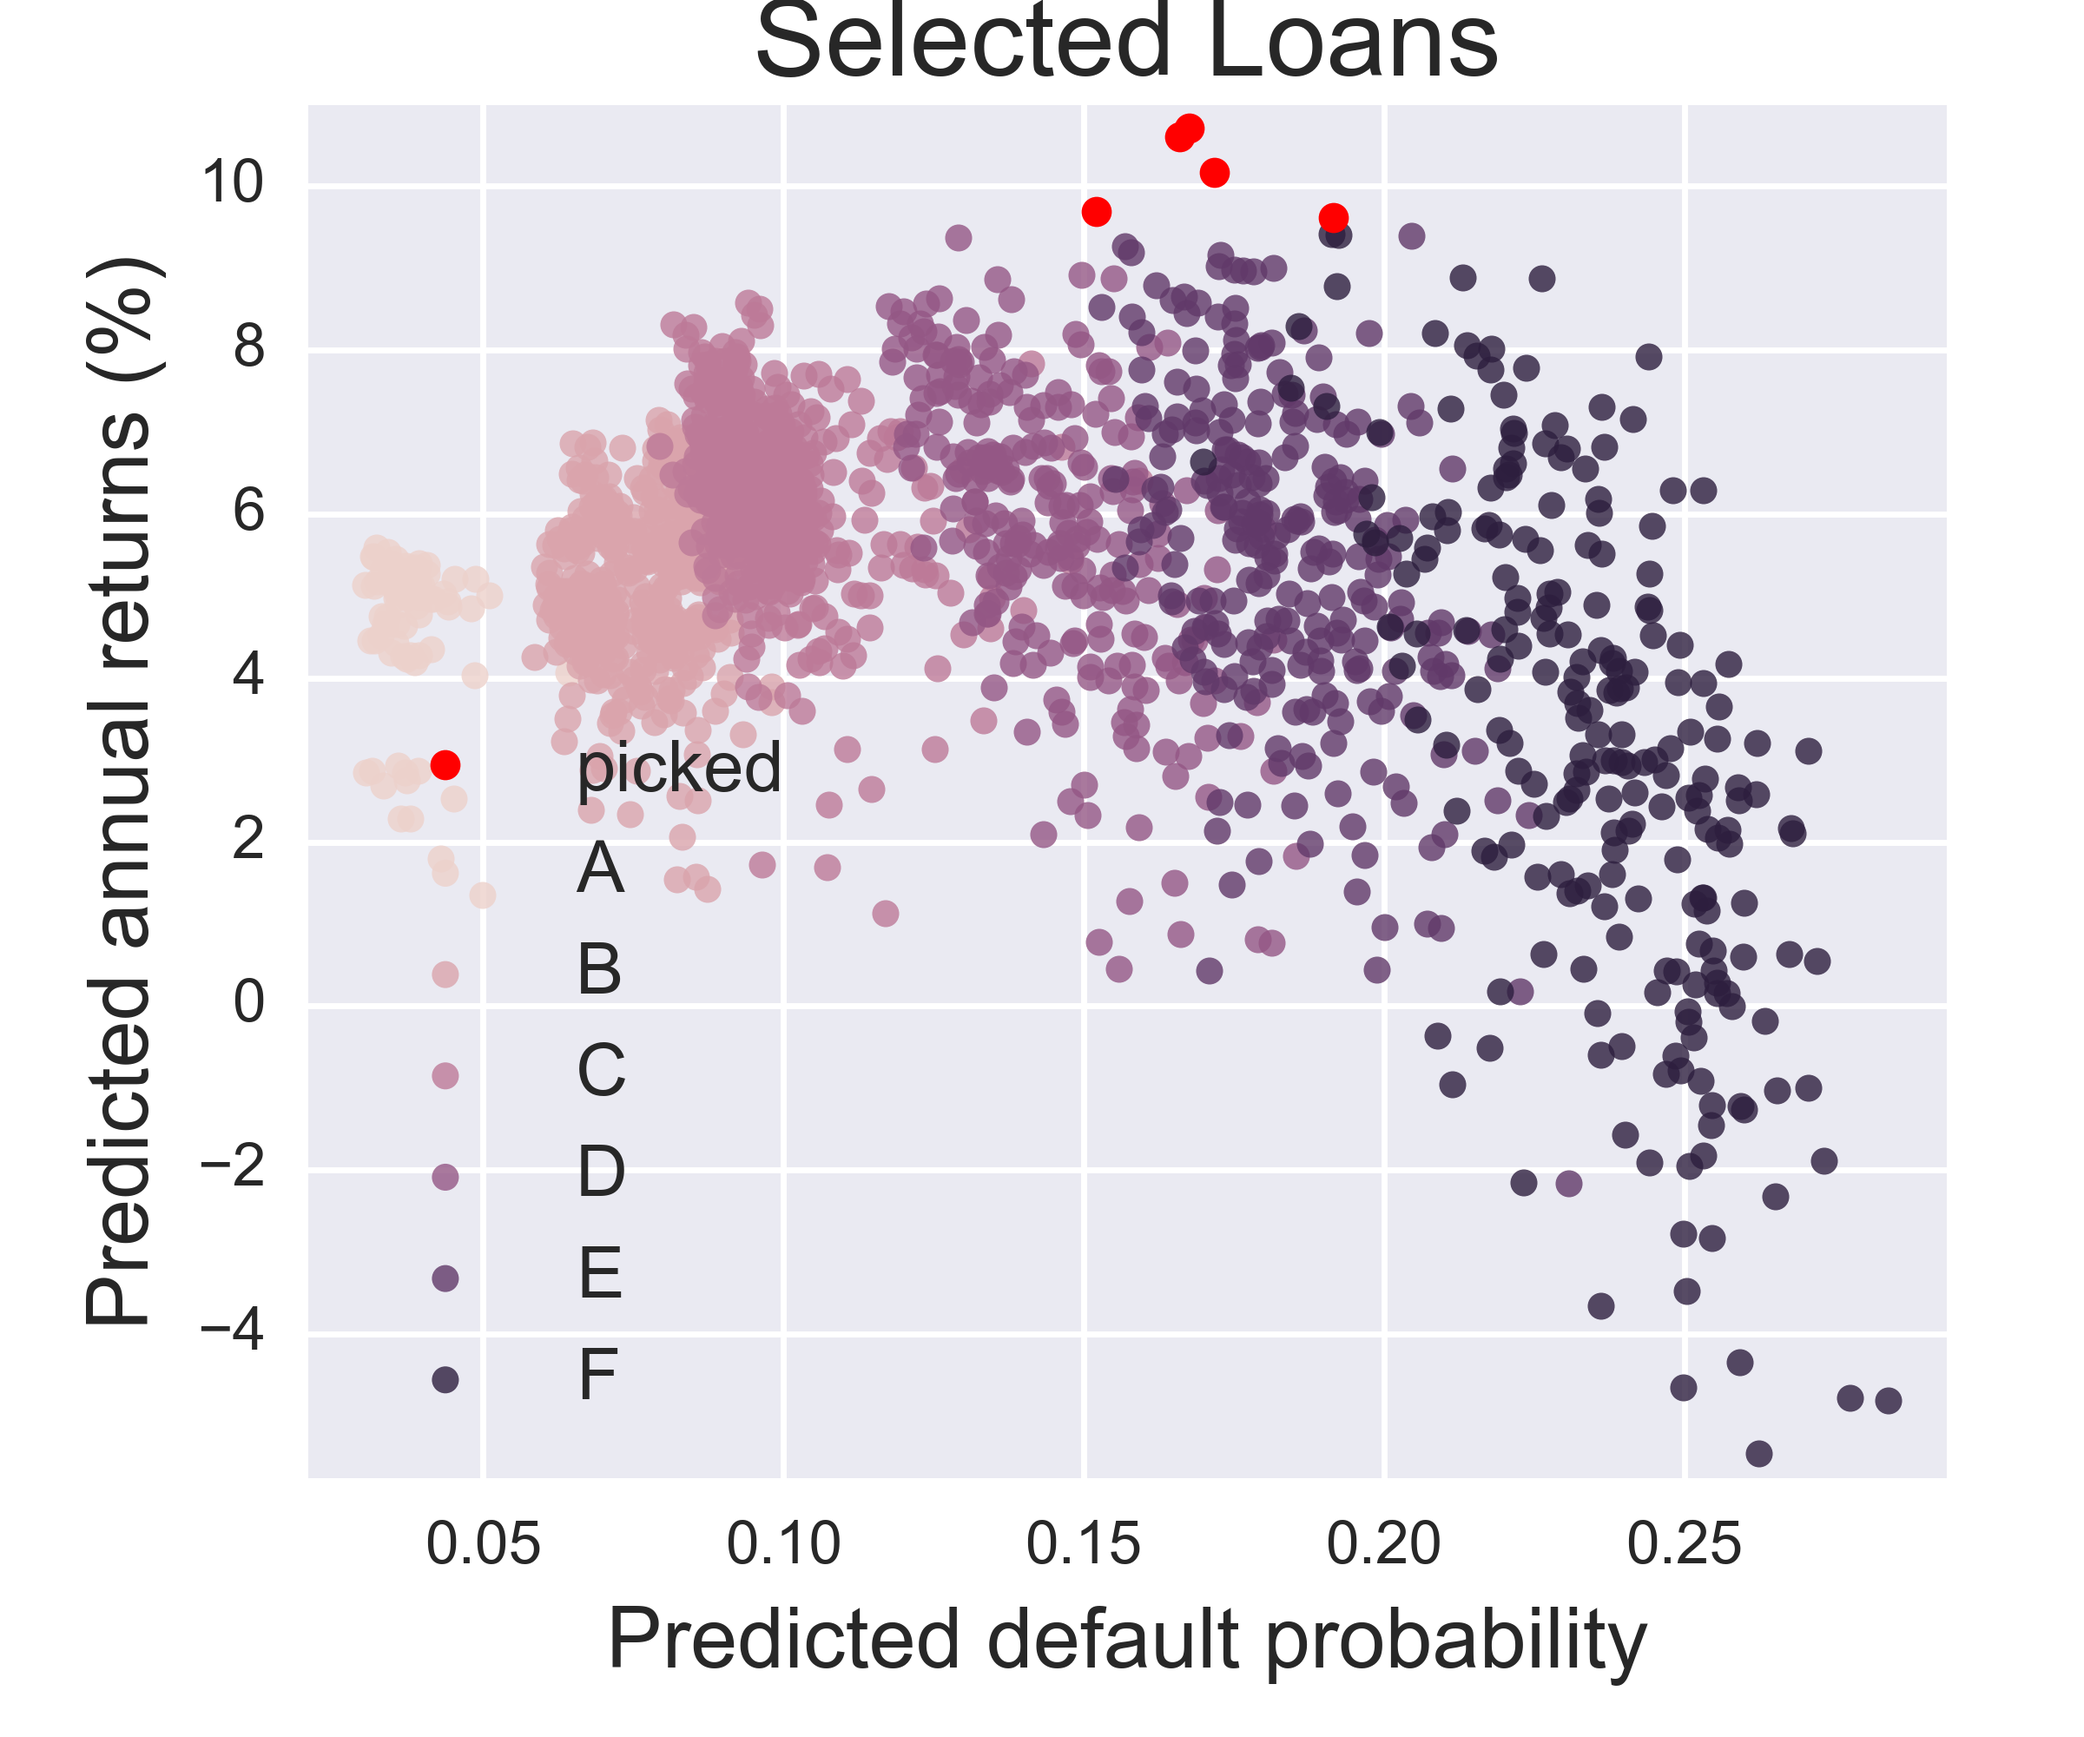
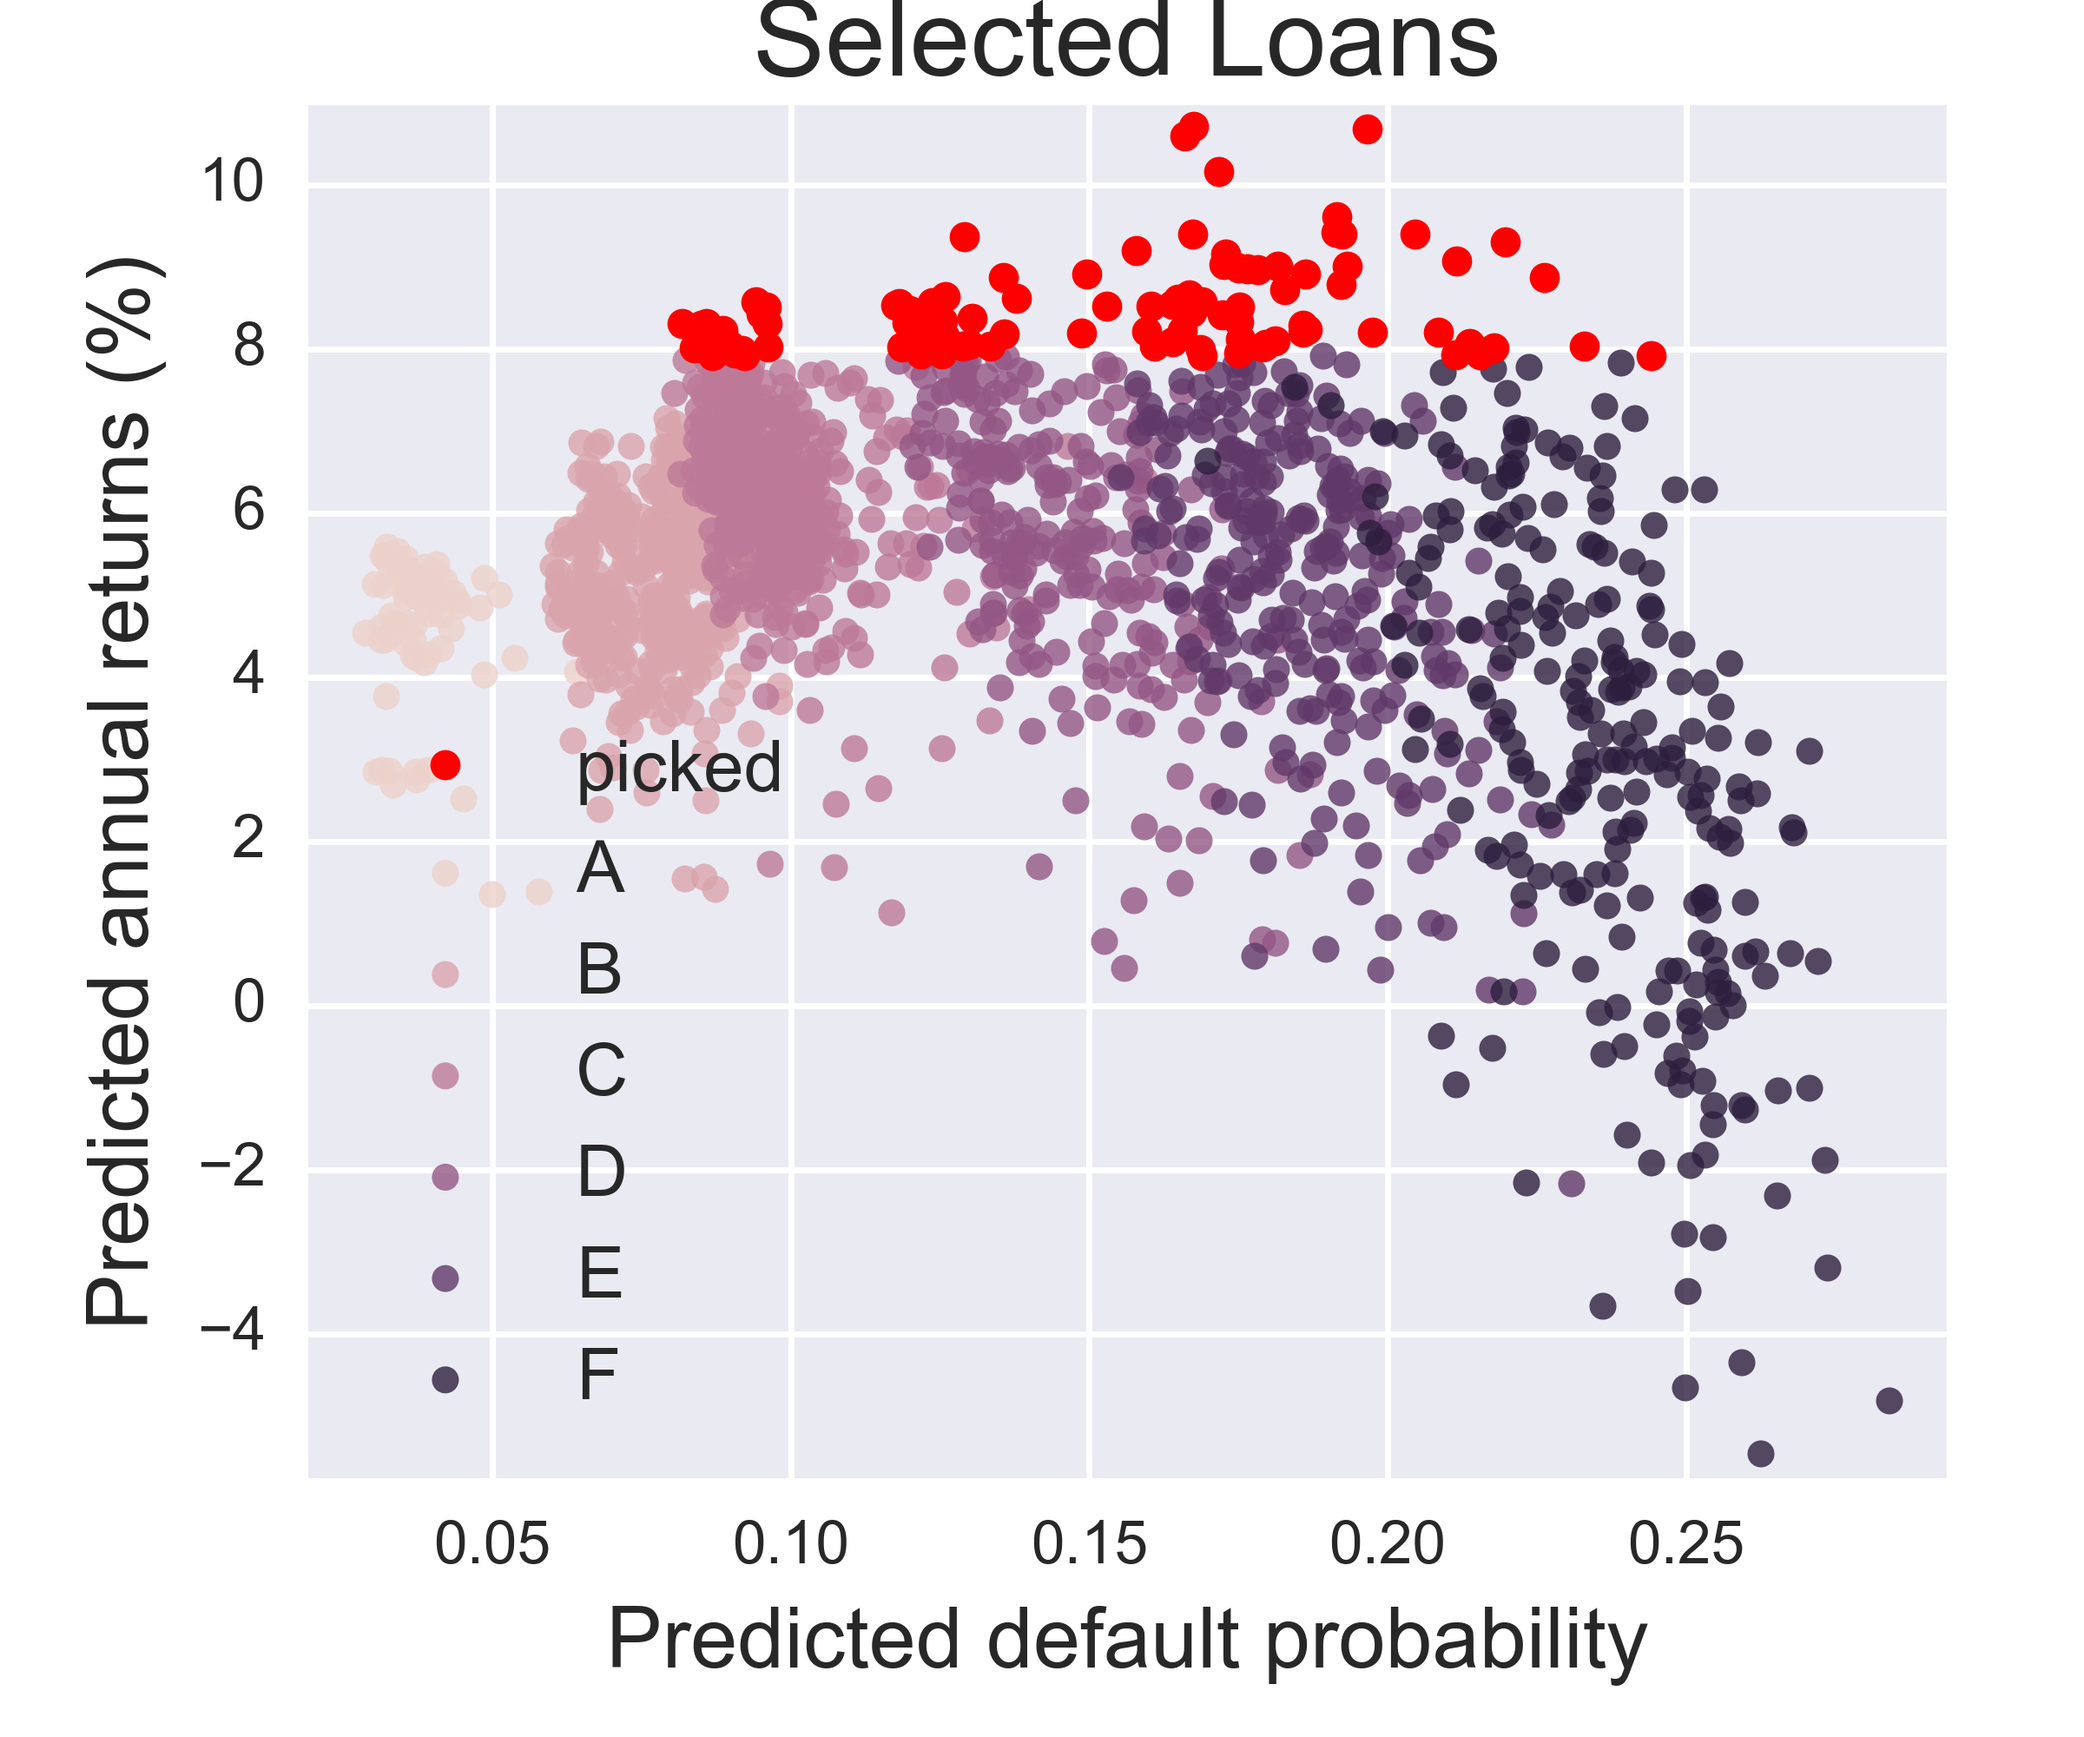
add authocheck on refreshing latest loans periodically

diff --git a/templates/models.html b/templates/models.html
@@ -27,7 +27,7 @@
 			<h2 style="padding-top: 50px; margin-top: -50px;" class="blog-post-title">Comparing Models</h2>
 			</a>
 			<p>Comparing returns on portfolios of varying sizes, selected using different models, we see that even a model based only on the borrower's location can provide significantly better returns compared to chance. The full random forest model, using all loan features, can provide increases in returns of up to 10%. This analysis also shows that the number of loans in the portfolio also serves to control the bias/variance tradeoff, with larger portfolios having decreased variance (and hence lower risk), but higher bias (worse average performance).</p>
-				<img class="img-responsive center-block" src="/static/images/full_mod_compare.png?{{rnum}}" width="700"></img>
+				<img class="img-responsive center-block" src="/static/images/full_mod_compare_ROI.png?{{rnum}}" width="700"></img>
 			</div>
 
 			<div>
@@ -37,7 +37,7 @@
 			<p>Another important questions is the extent to which these models are improving the returns for loans across all risk levels (i.e. loan grades), or whether they are simply telling us to select from the riskier loans which have better average returns. To look at this, we can compare the portfolio returns for different models at each loan grade. Riskier loans (lower grades) do tend to provide better returns overall, but the models substantially improve returns even for loans of a given grade.</p>
 			<div class="row">
 				<div class="col-sm-6">
-			<img class="img-responsive center-block" src="/static/images/grade_returns.png?{{rnum}}" width="500"></img>
+			<img class="img-responsive center-block" src="/static/images/grade_returns_ROI.png?{{rnum}}" width="500"></img>
 				</div>
 				<div class="col-sm-6">
 			<img class="img-responsive center-block" src="/static/images/picked_grades_props.png?{{rnum}}" width="500"></img>
@@ -50,7 +50,7 @@
 			<h2 style="padding-top: 50px; margin-top: -50px;" class="blog-post-title">Generalizing predictions over time</h2>
 			</a>
 			<p>Traditional K-fold cross-validation, as used above, does not tell us how well our model predictions will generalize to future loans, where the relationship between loan features and outcomes may change. One way to estimate the future performance of the model is to train it on loans issued up to a certain date, and then test its performance on predicting 'future' loan outcomes. Since the majority of loans in the LC data set were recently issued, I chose a slightly different approach, where I trained the model on ~200k loans issued in 2015 (green region below), and then tested the ability of the model to predict loans issued at varying times in the past. This ensured that there was a sufficient number of loans in the training set, while allowing for validation on test sets that were well separated in time from the training set. Somewhat surprisingly, the improved returns provided by selecting loans based on the model predictions were well-preserved when testing on loans as far back as 2010.</p>
-			<img class="img-responsive center-block" src="/static/images/time_validation.png?{{rnum}}" width="800"></img>
+			<img class="img-responsive center-block" src="/static/images/time_validation_ROI.png?{{rnum}}" width="800"></img>
 			</div>
 
 			<div>

diff --git a/templates/current_loans.html b/templates/current_loans.html
@@ -18,38 +18,19 @@
 						<p><b>Target portfolio size</b>{{ cl_form.port_size}}</p>
 						<p><b>Maximum default prob.</b>{{ cl_form.max_dp}}</p>
 						<p><b>Included Grades: A {{ cl_form.use_A}}   B {{ cl_form.use_B}}   C {{ cl_form.use_C}}   D {{ cl_form.use_D}}   E {{ cl_form.use_E}}   F {{ cl_form.use_F}}</b></p>
-					<div class="col-sm-2">
+					<div class="col-sm-2 col-sm-push-2">
 					<p><input class="btn btn-success" type="Submit" value="Submit"></p>
 					</div>
-					<div class="col-sm-2">			
-						<a href="update_loans" class="btn btn-danger" role="button">Update loan data</a>
-					</div>
-
 			</form>
 		<div class="row">
-			{% if pick_K == 0%}
 			<div class="col-sm-12">
-				<p> No loans found that match the desired criteria.</p>
-			<div class="col-sm-6">
-			<img class="img-responsive center-block" src="/static/images/cl_dp_ret.png?{{rnum}}" width="700"></img>
-			</div>	
+				<br>
+				<h3>Found {{tot_loans}} total available loans.</h3>
+				<div class="col-sm-12">
+				<img class="img-responsive center-block" src="/static/images/cl_dp_ret.png?{{rnum}}" width="600"></img>
+				</div>	
 			</div>
-
-			{% else %}
-			<div class="col-sm-12">
-				<p> Found {{pick_K}} loans matching desired criteria.</p>
-			</div>
-			<div class="col-sm-6">
-			<img class="img-responsive center-block" src="/static/images/cl_dp_ret.png?{{rnum}}" width="700"></img>
-			</div>	
-			<div class="col-sm-6">
-			<img class="img-responsive center-block" src="/static/images/cl_ret_dist.png?{{rnum}}" width="700"></img>
-			</div>
-			{% endif %}
 		</div>
-		<br>
-		<h3>Lending Club IDs from selected loans:</h3>
-		<p><small>{{loan_ids}}</small></p>
 		</div>
 	</div>
 </div>

diff --git a/LC_app.py b/LC_app.py
@@ -28,10 +28,12 @@ import LC_latest_predictions as LCP
 from LC_forms import *
 import dill
 import json
+import time
 
 auth_keys = json.load(open("auth_keys.txt",'r'))
 
 app_title = 'Loan Picker' 
+refresh_loan_time = 3600 * 4 #refresh current loans every this many seconds
 
 data_dir = 'static/data/'
 fig_dir = 'static/images/'
@@ -94,18 +96,22 @@ sim_lookup = LCP.get_validation_data()
 
 #%%
 use_grades = ['A','B','C','D','E','F']
+load_time = time.time()
+print('Grabbing loan data at {}'.format(load_time))
 predictions = LCP.get_LC_loans(auth_keys['LC_auth_key'], model_data,
                                zip3_loc_data, use_grades)
-
+                               
 #%%
 @app.route('/') #redirect to index page
 def main():
     return redirect('/index')
 
+
 # page where user selects desired stock features to plot
 @app.route('/index',methods=['GET'])
 def index():
     return render_template('home.html', app_title=app_title) #if request method was GET
+
 
 # form page for making plots by borrower location
 @app.route('/loan_mapping', methods=['GET','POST'])
@@ -132,6 +138,7 @@ def loan_mapping(map_rendered=False):
     return render_template('loan_mapping.html', map_form=mform, svg=Markup(str(app.base_map)),
                 rnum=np.random.randint(0,100000), map_rendered=map_rendered) 
 
+
 # reset map and redirect to loan form page
 @app.route('/reset_map',methods=['GET'])
 def reset_map():
@@ -140,15 +147,18 @@ def reset_map():
     (app.county_paths,app.state_paths) = LCL.get_map_paths(app.base_map,fips_to_zip)
     return redirect('/loan_mapping') 
 
+
 # page with analysis details
 @app.route('/details',methods=['GET'])
 def details():
     return render_template('details.html', rnum=np.random.randint(0,100000)) 
 
+
 # page with modeling results
 @app.route('/models',methods=['GET'])
 def models():
     return render_template('models.html',rnum=np.random.randint(0,100000)) 
+
 
 # page with form for generating time-based plots
 @app.route('/time_series_form',methods=['GET','POST'])
@@ -159,6 +169,7 @@ def time_series_form():
         return redirect('/time_series') #otherwise, go to the graph page
     
     return render_template('time_series_form.html', ts_form=mform) 
+
 
 # results page for time-based plots
 @app.route('/time_series',methods=['GET','POST'])
@@ -182,7 +193,36 @@ def time_series():
 # page with form for generating time-based plots
 @app.route('/current_loans',methods=['GET','POST'])
 def current_loans():
+    global predictions, load_time
+    
+    cur_time = time.time()
+    if (cur_time - load_time) > refresh_loan_time:       
+        load_time = cur_time        
+        print('Grabbing loan data at {}'.format(load_time))
+        predictions = LCP.get_LC_loans(auth_keys['LC_auth_key'], model_data,
+                                       zip3_loc_data, use_grades)
+    
     mform = cl_form(request.form)          
+    if request.method == 'POST':
+        app.cl_form = mform
+        return redirect('/current_loans_results') 
+       
+    else:
+        fig = LCP.make_dp_ret_figure(predictions, 0, predictions)
+        plt.savefig(fig_dir + 'cl_dp_ret.png', dpi=500, format='png')
+        plt.close()
+            
+        return render_template('current_loans.html', cl_form=mform, 
+                               rnum=np.random.randint(0,100000),
+                               tot_loans=len(predictions)) 
+
+
+@app.route('/current_loans_results',methods=['GET','POST'])
+def current_loans_results():
+    mform = cl_form(request.form) 
+    if request.method == 'GET':
+        mform = app.cl_form
+
     bool_vals = {'use_A':'A','use_B':'B','use_C':'C','use_D':'D',
                  'use_E':'E','use_F':'F'}
     constraints = {}
@@ -193,6 +233,7 @@ def current_loans():
     allowed_loans = predictions[(predictions.dp <= constraints['max_dp']) & \
                                 (predictions.grades.isin(constraints['use_grades']))]
     pick_K = min([mform.data['port_size'], len(allowed_loans)])
+
     loan_ids_string = ', '.join(allowed_loans[:pick_K]['ids'].values.astype(str))
     fig = LCP.make_dp_ret_figure(predictions, pick_K, allowed_loans)
     plt.savefig(fig_dir + 'cl_dp_ret.png', dpi=500, format='png')
@@ -203,18 +244,9 @@ def current_loans():
         plt.savefig(fig_dir + 'cl_ret_dist.png', dpi=500, format='png')
         plt.close()
         
-    return render_template('current_loans.html', cl_form=mform, 
+    return render_template('current_loan_results.html', cl_form=mform, 
                            pick_K=pick_K, rnum=np.random.randint(0,100000),
-                            loan_ids=loan_ids_string) 
-
-
-# Load latest LC data
-@app.route('/update_loans',methods=['GET'])
-def update_loans():
-    print('grabbing latest loans')
-    predictions = LCP.get_LC_loans(auth_keys['LC_auth_key'], model_data, 
-                                   zip3_loc_data, use_grades)
-    return redirect('/current_loans') 
+                           loan_ids=loan_ids_string) 
 
 
 if __name__ == '__main__':

diff --git a/LC_latest_predictions.py b/LC_latest_predictions.py
@@ -139,12 +139,13 @@ def make_dp_ret_figure(predictions, pick_K, allowed_loans):
                palette=pal, legend=False, size=4.0, aspect=1.2)
         
     pick_K = min([pick_K, len(allowed_loans)])
-    plt.plot(allowed_loans.iloc[:pick_K]['dp'],allowed_loans.iloc[:pick_K]['returns'],'r.',
-            ms=10, label='picked')
+    if pick_K != 0:
+        plt.plot(allowed_loans.iloc[:pick_K]['dp'],allowed_loans.iloc[:pick_K]['returns'],'r.',
+                ms=10, label='picked')
+        plt.title('Selected Loans', fontsize=18)
     plt.legend(loc='lower left', fontsize=12)
     plt.xlabel('Predicted default probability',fontsize=14)
     plt.ylabel('Predicted annual returns (%)',fontsize=14)
-    plt.title('Selected Loans', fontsize=18)
     plt.margins(.01, .01)   
     return plt.gcf()
     
@@ -191,9 +192,7 @@ def make_return_dist_fig(sim_lookup, predictions, pick_K=100, n_bins=200, n_boot
     
     
 def get_LC_loans(auth_key, model_data, zip3_loc_data, use_grades):
-    records = get_latest_records(auth_key, zip3_loc_data, use_grades)   
-    print('Succesfully pulled latest LC records')
-    
+    records = get_latest_records(auth_key, zip3_loc_data, use_grades)       
     loan_grades = [rec['grade'] for rec in records]
     loan_ids = [rec['id'] for rec in records]
     

diff --git a/make_modeling_figs.py b/make_modeling_figs.py
@@ -401,7 +401,7 @@ jitt_x = 0.6
 alpha = 0.75
 #err_norm = np.sqrt(n_folds)
 err_norm = 1.0
-fig = plt.figure(figsize=(6.0,5.0))
+fig = plt.figure(figsize=(5.0,4.0))
 ax = plt.subplot(1,1,1)
 for idx, mod_name in enumerate(model_names):
     plt.errorbar(np.arange(len(grades)) + idx*jitt_x/n_mods - jitt_x/(2.),
